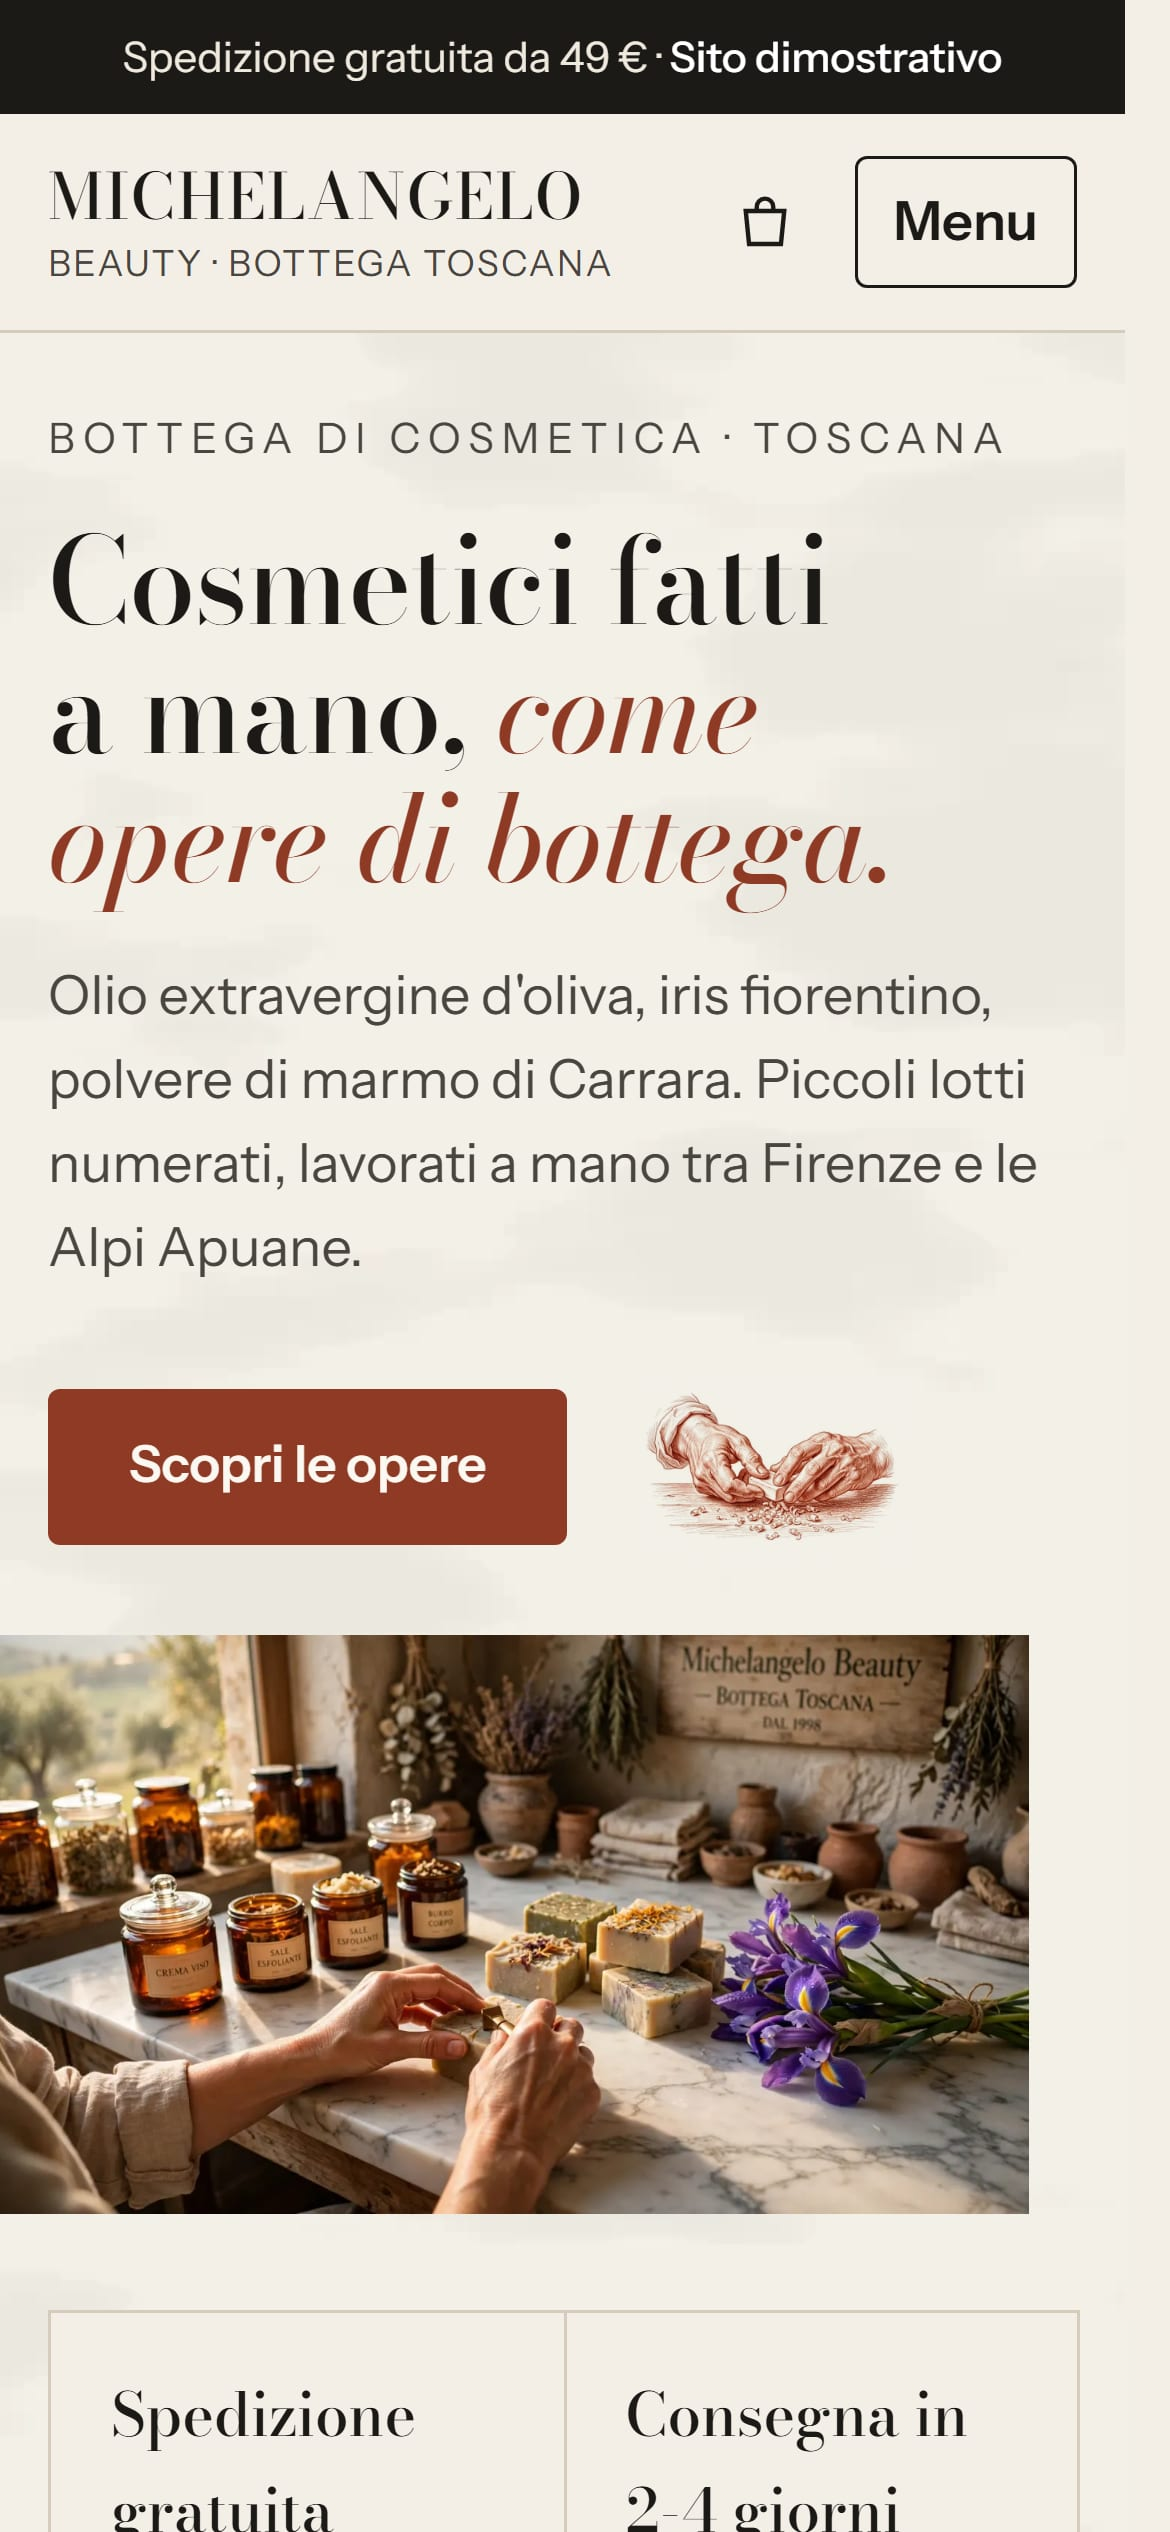
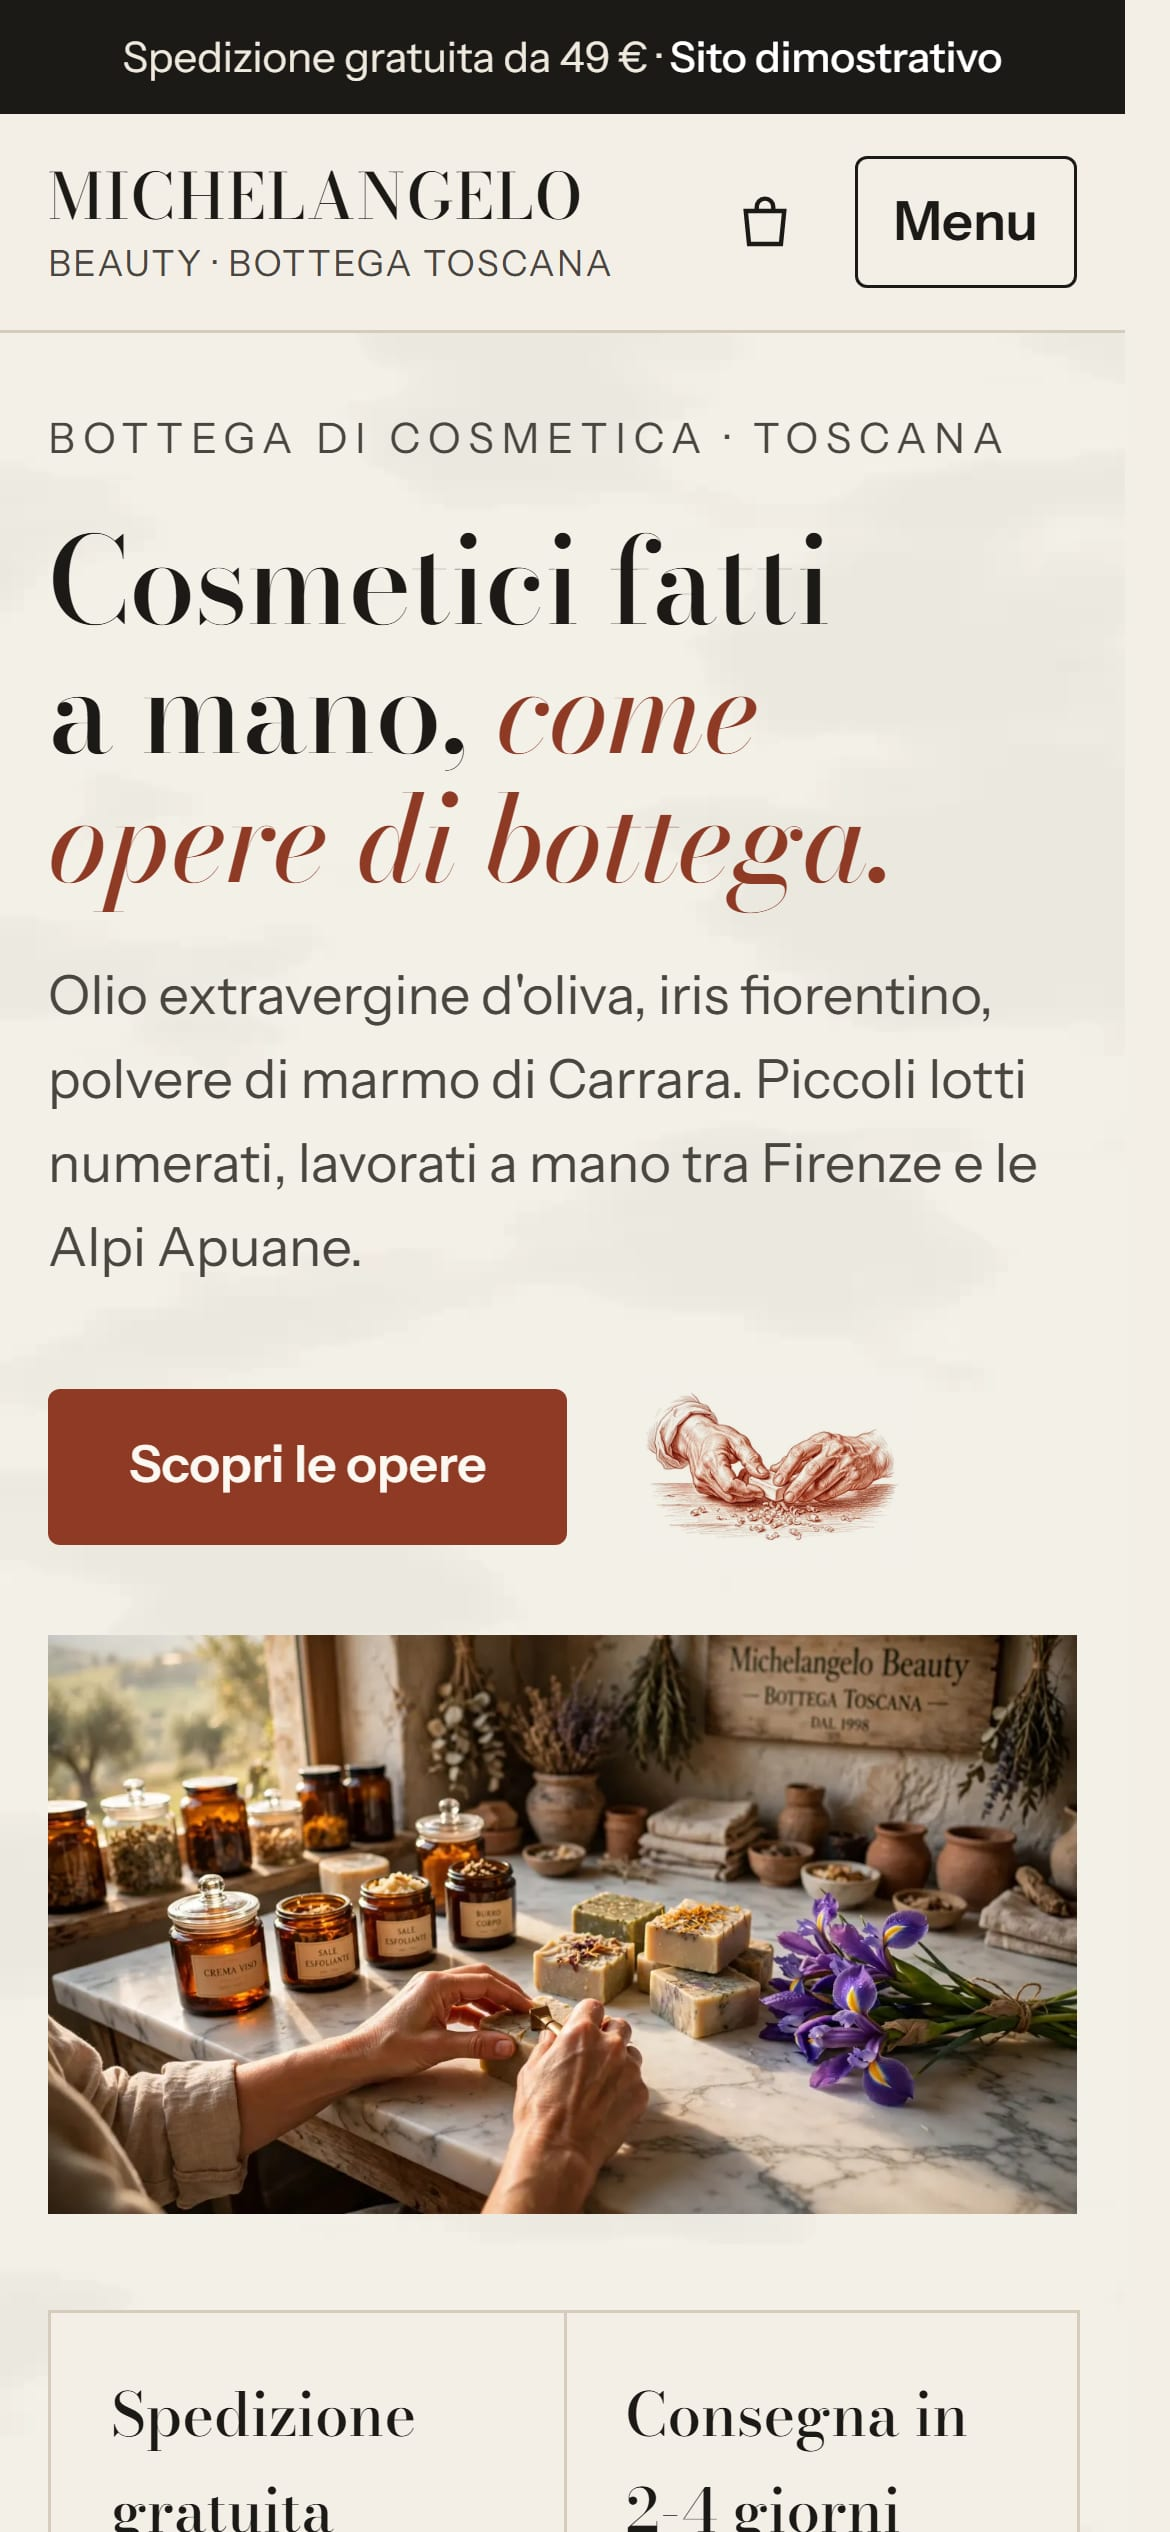
fix: screenshot telefono di Michelangelo Beauty aggiornato (foto dentro i margini)

Changed region(s): [[0.0, 0.624, 0.9231, 0.8736]]

diff --git a/index.html b/index.html
@@ -191,7 +191,7 @@
               <div class="browser-bar"><span></span><span></span><span></span><em>michelangelo beauty</em></div>
               <img src="assets/shots/michelangelo-desk.jpg?v=1" alt="Home page del negozio online Michelangelo Beauty su desktop" loading="lazy" width="1440" height="900">
             </div>
-            <div class="phone"><img src="assets/shots/michelangelo-mob.jpg?v=1" alt="Home page del negozio online Michelangelo Beauty su smartphone" loading="lazy" width="390" height="844"></div>
+            <div class="phone"><img src="assets/shots/michelangelo-mob.jpg?v=2" alt="Home page del negozio online Michelangelo Beauty su smartphone" loading="lazy" width="390" height="844"></div>
           </a>
           <div class="project-body">
             <div class="project-meta"><span class="badge">Concept</span><span class="mono">E-commerce · 2026</span></div>
